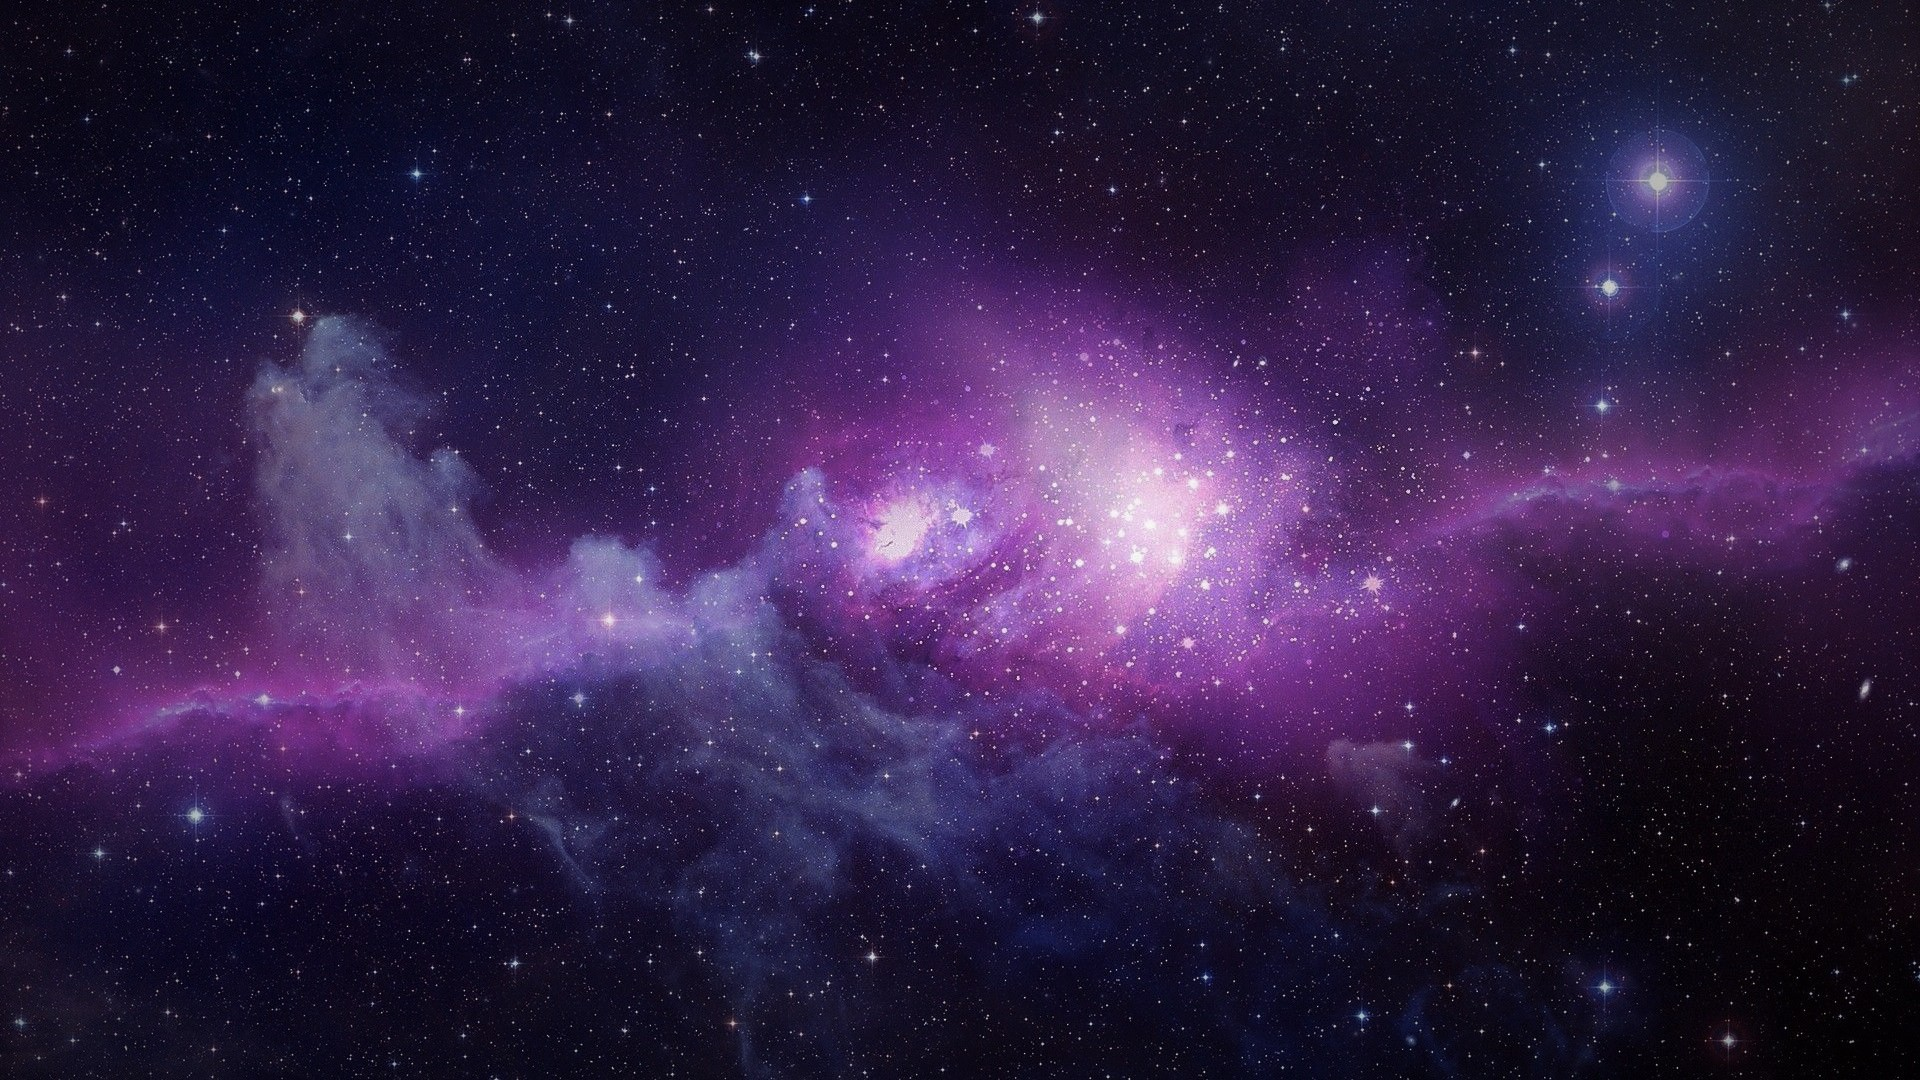
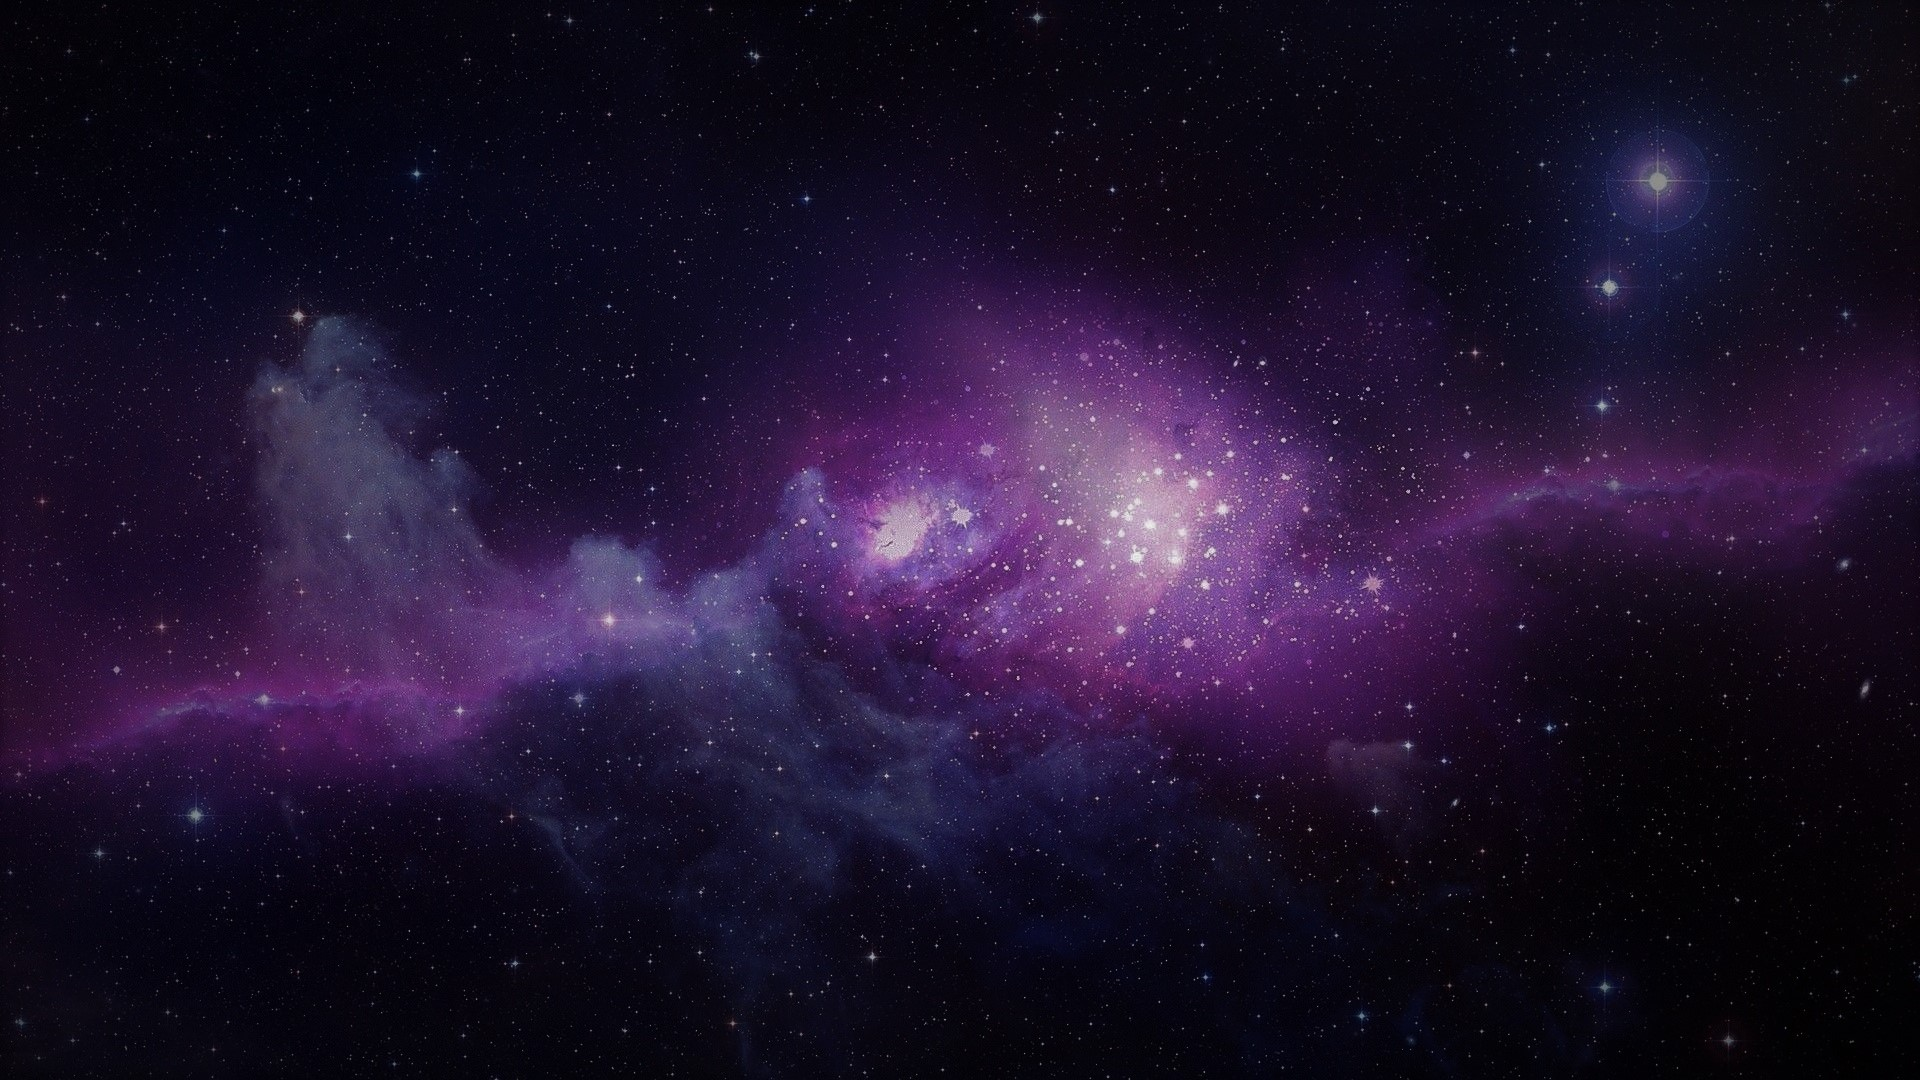
push everything

diff --git a/index.html b/index.html
@@ -3,14 +3,78 @@
     <head>
         <title> = Code Portfolio =</title>
         <link rel="stylesheet" href="index.css">
-        <script src="index.js"></script>
+        <script
+            src="https://code.jquery.com/jquery-3.5.1.min.js"
+            integrity="sha256-9/aliU8dGd2tb6OSsuzixeV4y/faTqgFtohetphbbj0="
+            crossorigin="anonymous">
+        </script>
     </head>
     <body>
-        <div id='bg-main'>
-            <div id='title'>
+        <div id='bg-main' class='noscroll noselect'>
+            <div id='bg-img'></div>
+        </div>
+        <div id='content' class='noscroll'>
+            <div id='content-title' class='noselect noscroll'>
                 <h1>Curated Open-Source Project Directory</h1>
-                <h4>- Matteo Harris -</h4>
+                <h4>- Matteo Harris - <a href='https://github.com/iTecAI' title="Github Profile" target="_blank"><img src='assets/icon.jpg'></a></h4>
+            </div>
+            <div id='content-items'>
+                <div class='content-item' data-url='https://github.com/iTecAI/XL3' id='item-xorienslair'>
+                    <div class='item-title' class='noselect'><span class='noselect'>Xorien's Lair</span></div>
+                    <div class='item-image' class='noselect'><img src="assets/repos/xoriens_lair.png"></div>
+                    <div class='item-desc'>Xorien's Lair (or more specifically Xorien's Lair 3) is the third iteration of a centralized D&D 5e compendium, character manager, and collaborative map viewer. This iteration is functionally the final prototype, and is not yet fully scalable. It uses a Python REST API backend, and HTML/CSS/JS for the frontend. This is by far my largest project, taking almost a year to get to this point.</div>
+                    <div class='item-link' class='noselect'><span class='noselect'>View Project</span></div>
+                </div>
+                <div class='content-item' data-url='https://github.com/iTecAI/p2p-local' id='item-p2p-local'>
+                    <div class='item-title' class='noselect'><span class='noselect'>p2p-Local</span></div>
+                    <div class='item-image' class='noselect'><img src="assets/repos/p2plocal.png"></div>
+                    <div class='item-desc'>p2p-Local is a small but versatile Python library for a full-mesh peer-to-peer communication between devices on a local network. It supports multiple channels, and implements UDP broadcasting for neighborhood discovery. Once a link between devices is formed, nodes can call functions on other nodes via the XMLRPC protocol.</div>
+                    <div class='item-link' class='noselect'><span class='noselect'>View Project</span></div>
+                </div>
+                <div class='content-item' data-url='https://github.com/iTecAI/GISS' id='item-giss'>
+                    <div class='item-title' class='noselect'><span class='noselect'>GISS</span></div>
+                    <div class='item-image' class='noselect'><img src="assets/repos/giss.png"></div>
+                    <div class='item-desc'>GISS, or the Google Infinite Storage Solution, is a small project that encodes binary (or any other type) files into base64, then stores them in Google Docs. It creates extra files as needed, and can split larger files in between multiple Docs files. This theoretically allows far more binary storage than Google Drive would normally allow, due to the unlimited Docs storage. It was mostly just an exercise in dealing with the Drive APIs, but it is fully functional.</div>
+                    <div class='item-link' class='noselect'><span class='noselect'>View Project</span></div>
+                </div>
+                <div class='content-item' data-url='https://github.com/iTecAI/Roh-3.0' id='item-roh3'>
+                    <div class='item-title' class='noselect'><span class='noselect'>Roh 3.0</span></div>
+                    <div class='item-image' class='noselect'><img src="assets/repos/roh3.png"></div>
+                    <div class='item-desc'>Roh 3.0 is the third iteration of a slightly frivolous chatbot based on a fairly simple keyword-detection algortihm. However, the keywords and associated responses are automatically generated based on its own conversations, meaning it does learn very gradually over time. It is currently inhabiting a Discord bot, but is a self-contained library and can be used in many scenarios.</div>
+                    <div class='item-link' class='noselect'><span class='noselect'>View Project</span></div>
+                </div>
             </div>
         </div>
+        <div id='directory' class='noselect noscroll'>
+            <a class='directory-item' href='#item-xorienslair'>
+                <div class='dir-name'><span>Xorien's Lair</span></div>
+                <div class='dir-desc'><span>A full-stack D&D 5e virtual table top system.</span></div>
+            </a>
+            <a class='directory-item' href='#item-p2p-local'>
+                <div class='dir-name'><span>p2p-Local</span></div>
+                <div class='dir-desc'><span>A python library for a fully-connected local mesh network.</span></div>
+            </a>
+            <a class='directory-item' href='#item-giss'>
+                <div class='dir-name'><span>GISS</span></div>
+                <div class='dir-desc'><span>Binary file storage in Google Docs.</span></div>
+            </a>
+            <a class='directory-item' href='#item-roh3'>
+                <div class='dir-name'><span>Roh 3.0</span></div>
+                <div class='dir-desc'><span>A simple chatbot with a self-learning system.</span></div>
+            </a>
+        </div>
+
+        <script>
+            $('.item-desc').slideUp(0);
+            $('.content-item').on('mouseenter',function(){
+                $(this).children('.item-desc').slideDown(100);
+            });
+            $('.content-item').on('mouseleave',function(){
+                $(this).children('.item-desc').slideUp(100);
+            });
+            $('.item-link').on('click',function(){
+                window.location = $(this).parents('.content-item').attr('data-url');
+            });
+        </script>
     </body>
 </html>

diff --git a/index.css b/index.css
@@ -8,22 +8,223 @@
     src: url(assets/mono.ttf);
 }
 
-:root {
-    --primary: #CB93D9;
-    --primary_alt: #8F95C7;
-    --secondary: #6C338F;
-    --secondary_alt: #8164B8;
-    --tertiary: #23194D;
-}
-
 #bg-main {
     position: fixed;
+    display: inline-block;
     top: 0px;
     left: 0px;
     width: 100%;
     height: 100%;
+}
+#bg-img {
+    position: absolute;
+    display: inline-block;
+    top: -20px;
+    left: -20px;
+    width: calc(100% + 40px);
+    height: calc(100% + 40px);
     background-image: url(assets/background.jpg);
     background-position: center;
     background-repeat: no-repeat;
     background-size: cover;
+    filter: blur(3px);
+    -webkit-filter: blur(3px);
+}
+
+.noscroll::-webkit-scrollbar, body::-webkit-scrollbar, html::-webkit-scrollbar {
+    display: none;
+}
+.noscroll, body, html {
+    -ms-overflow-style: none;
+    scrollbar-width: none;
+}
+
+.noselect {
+    -webkit-touch-callout: none; /* iOS Safari */
+      -webkit-user-select: none; /* Safari */
+       -khtml-user-select: none; /* Konqueror HTML */
+         -moz-user-select: none; /* Old versions of Firefox */
+          -ms-user-select: none; /* Internet Explorer/Edge */
+              user-select: none; /* Non-prefixed version, currently
+                                    supported by Chrome, Edge, Opera and Firefox */
+}
+
+#content {
+    position: absolute;
+    display: inline-block;
+    top: 0px;
+    left: 0px;
+    width: 100%;
+    min-height: 100%;
+    height: fit-content;
+}
+#content-title {
+    position: absolute;
+    top: 80px;
+    left: 50%;
+    transform: translate(-50%,-50%);
+    text-align: center;
+    color: #ffffff;
+    font-family: mono;
+}
+#content-title h4 {
+    position: relative;
+    display: inline-block;
+    width: fit-content;
+}
+#content-title h4 img {
+    display: inline-block;
+    height: 32px;
+    width: 32px;
+    border-radius: 16px;
+    position: absolute;
+    top: 50%;
+    right: 0px;
+    transform: translate(130%,-50%);
+}
+
+#content-items {
+    position: absolute;
+    top: 150px;
+    left: 15%;
+    display: inline-block;
+    width: 70%;
+    height: fit-content;
+    padding: 15px;
+}
+.content-item {
+    position: relative;
+    margin-bottom: 15px;
+    padding: 10px;
+    background-color: #ae7bff44;
+    box-sizing: border-box;
+    backdrop-filter: blur(6px);
+    border-radius: 10px;
+}
+.item-title {
+    display: inline-block;
+    width: 100%;
+    height: 6vh;
+    color: #ffffff;
+    font-family: mono;
+    font-size: 3vh;
+    text-align: center;
+    position: relative;
+}
+.item-title span {
+    position: absolute;
+    display: inline-block;
+    top: 50%;
+    left: 50%;
+    transform: translate(-50%,-50%);
+}
+.item-image {
+    display: inline-block;
+    border-radius: 5px;
+    width: 100%;
+    height: auto;
+    position: relative;
+    margin: 5px 0px 5px 0px;
+}
+.item-image img {
+    width: 100%;
+    height: auto;
+    border-radius: 7px;
+}
+.item-desc {
+    font-family: main;
+    color: #ffffff;
+    height: fit-content;
+    width: 100%;
+}
+.item-link {
+    top: 10px;
+    right: 10px;
+    padding: 10px;
+    width: 20%;
+    height: calc(6vh - 20px);
+    position: absolute;
+    display: inline-block;
+    background-color: #291c47;
+    color: #ffffff;
+    font-family: mono;
+    font-size: 2vh;
+    border-radius: 5px;
+    transition: background-color 0.1s;
+    cursor: pointer;
+}
+.item-link:hover {
+    background-color: #1c1430;
+}
+.item-link span {
+    position: absolute;
+    display: inline-block;
+    top: 50%;
+    left: 50%;
+    transform: translate(-50%,-50%);
+}
+
+#directory {
+    position: fixed;
+    top: 0px;
+    left: 0px;
+    background-color: #ae7bff66;
+    backdrop-filter: blur(6px);
+    display: inline-block;
+    width: 5vw;
+    height: 100%;
+    overflow-x: visible;
+}
+.directory-item {
+    position: relative;
+    display: inline-block;
+    width: 100%;
+    height: 7%;
+    overflow-x: hidden;
+    overflow-y: hidden;
+    transition: width 0.2s;
+    margin: 0px;
+    margin-top: -4px;
+}
+.dir-name {
+    position: absolute;
+    display: inline-block;
+    top: 0px;
+    left: 0px;
+    width: 5vw;
+    height: 100%;
+    font-family: mono;
+    color: #ffffff;
+}
+.dir-name span {
+    position: absolute;
+    top: 50%;
+    left: 50%;
+    transform: translate(-50%,-50%);
+    text-align: center;
+}
+.dir-desc {
+    position: absolute;
+    top: 0px;
+    left: 5vw;
+    display: inline-block;
+    width: 15vw;
+    height: 100%;
+    background-color: #ae7bffbb;
+    backdrop-filter: blur(16px);
+    color: white;
+    font-family: mono;
+    border-radius: 0 5px 5px 0;
+}
+.dir-desc span {
+    position: absolute;
+    top: 50%;
+    left: 50%;
+    transform: translate(-50%,-50%);
+    text-align: center;
+    display: inline-block;
+    width: 14vw;
+}
+.directory-item:hover {
+    width: 20vw;
 }
